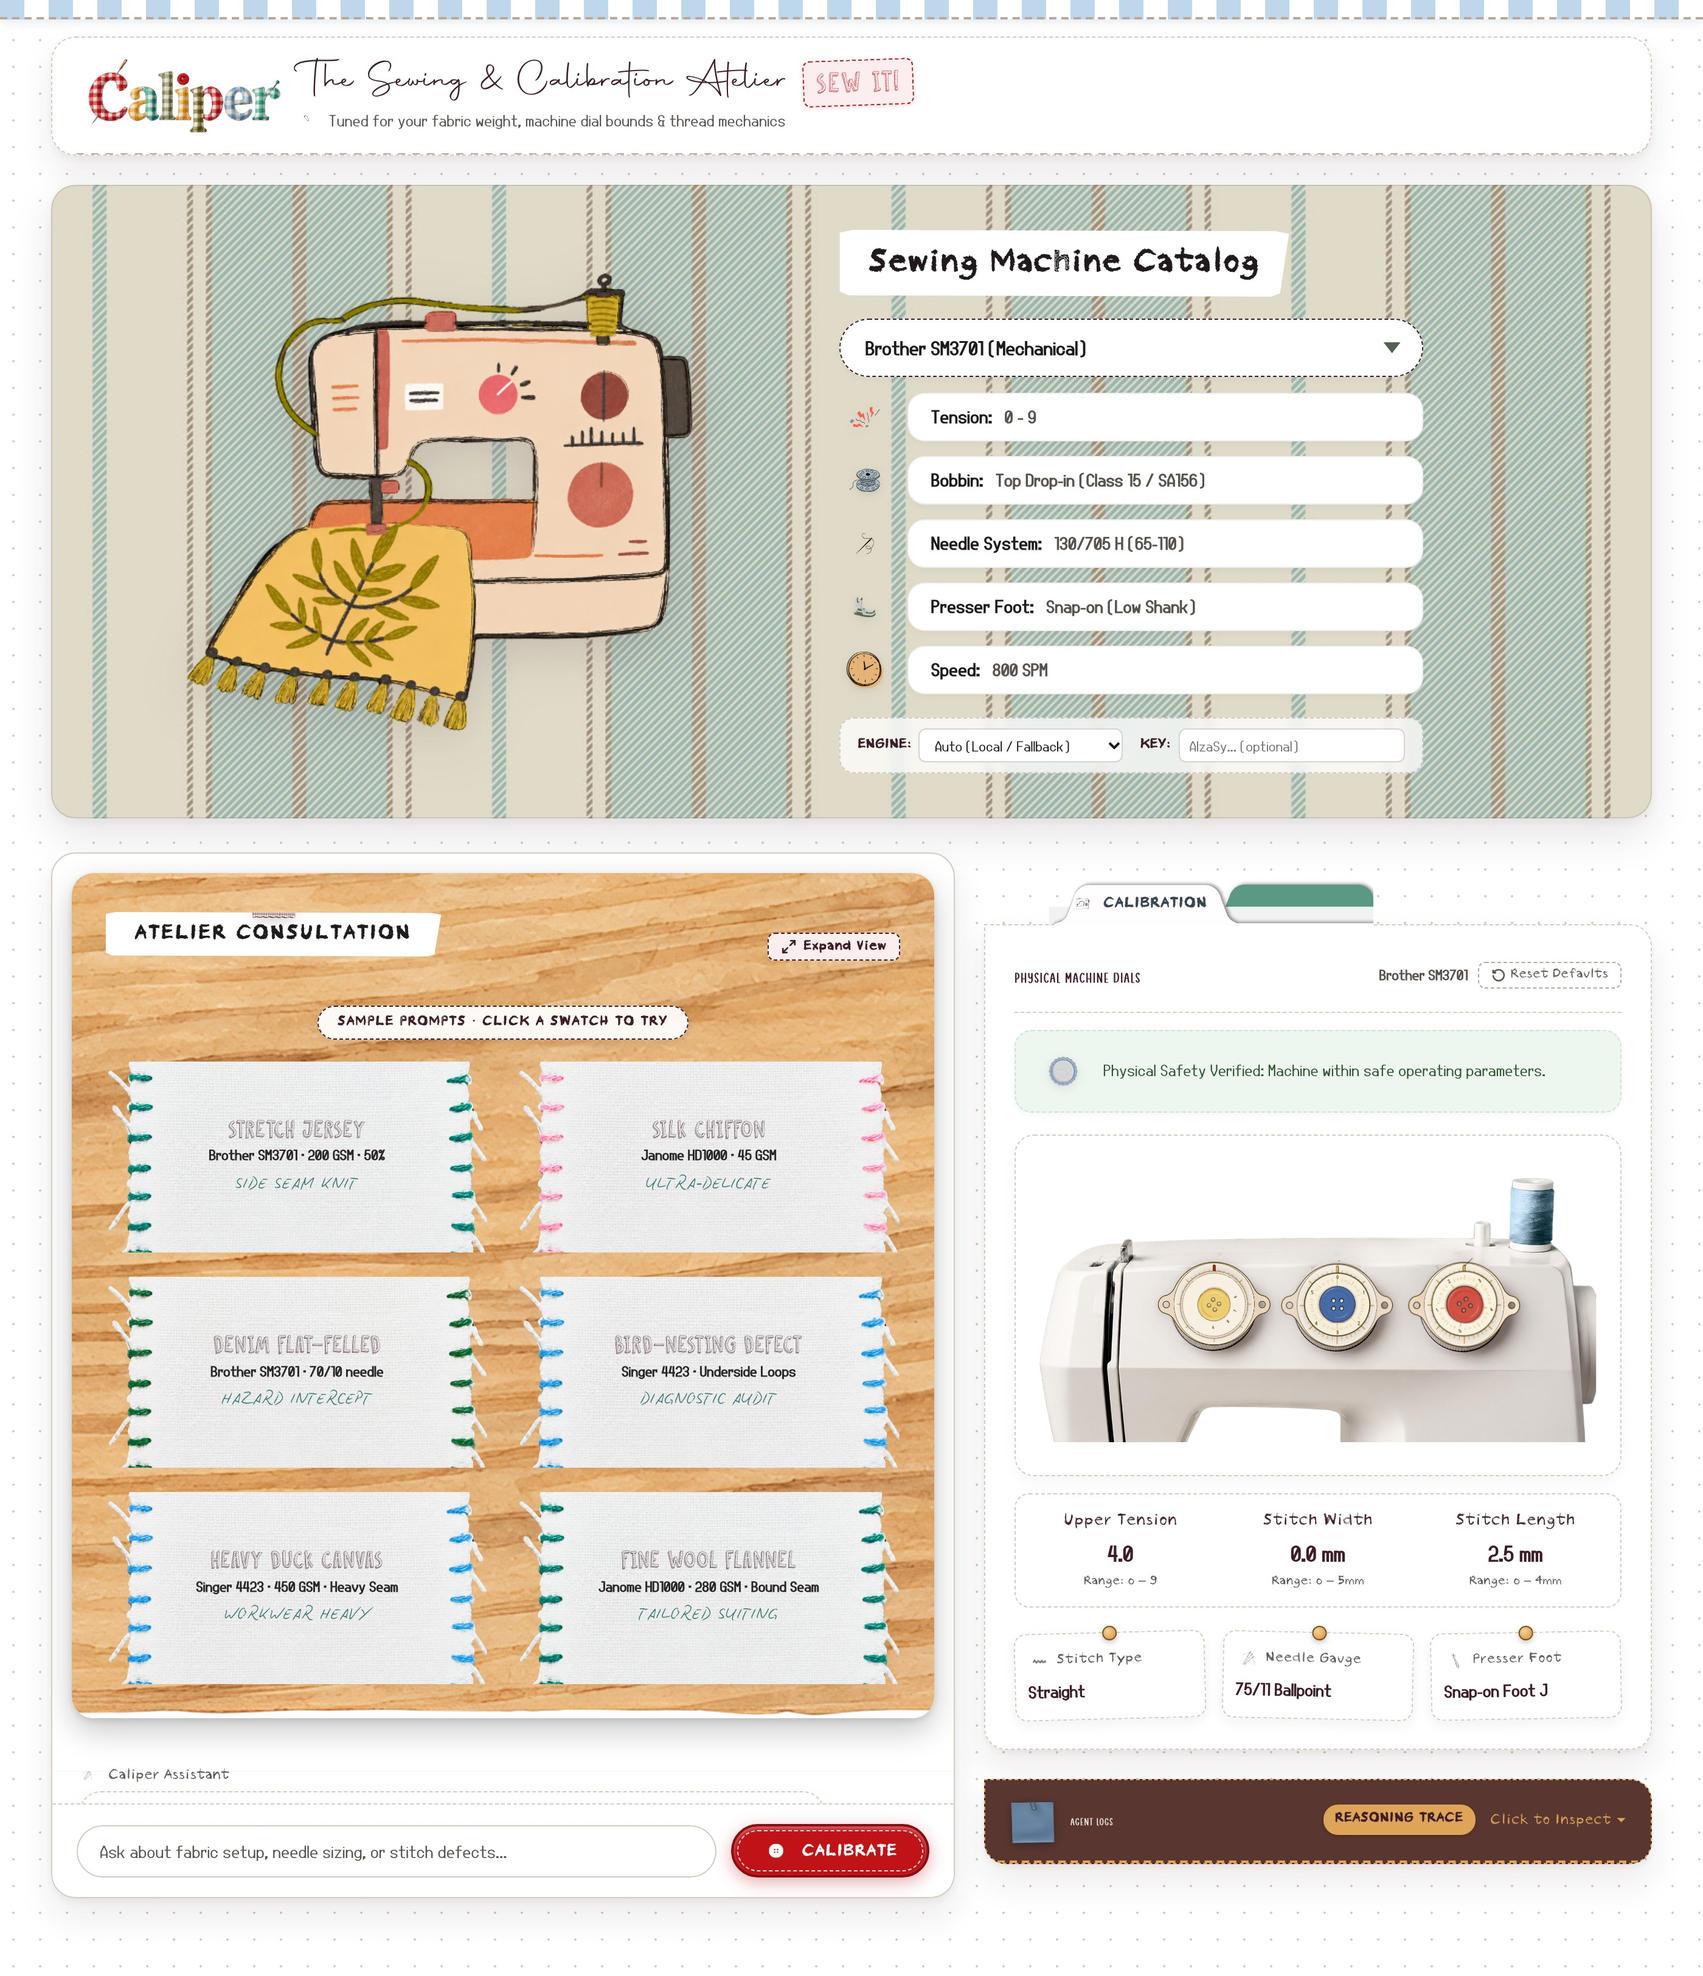
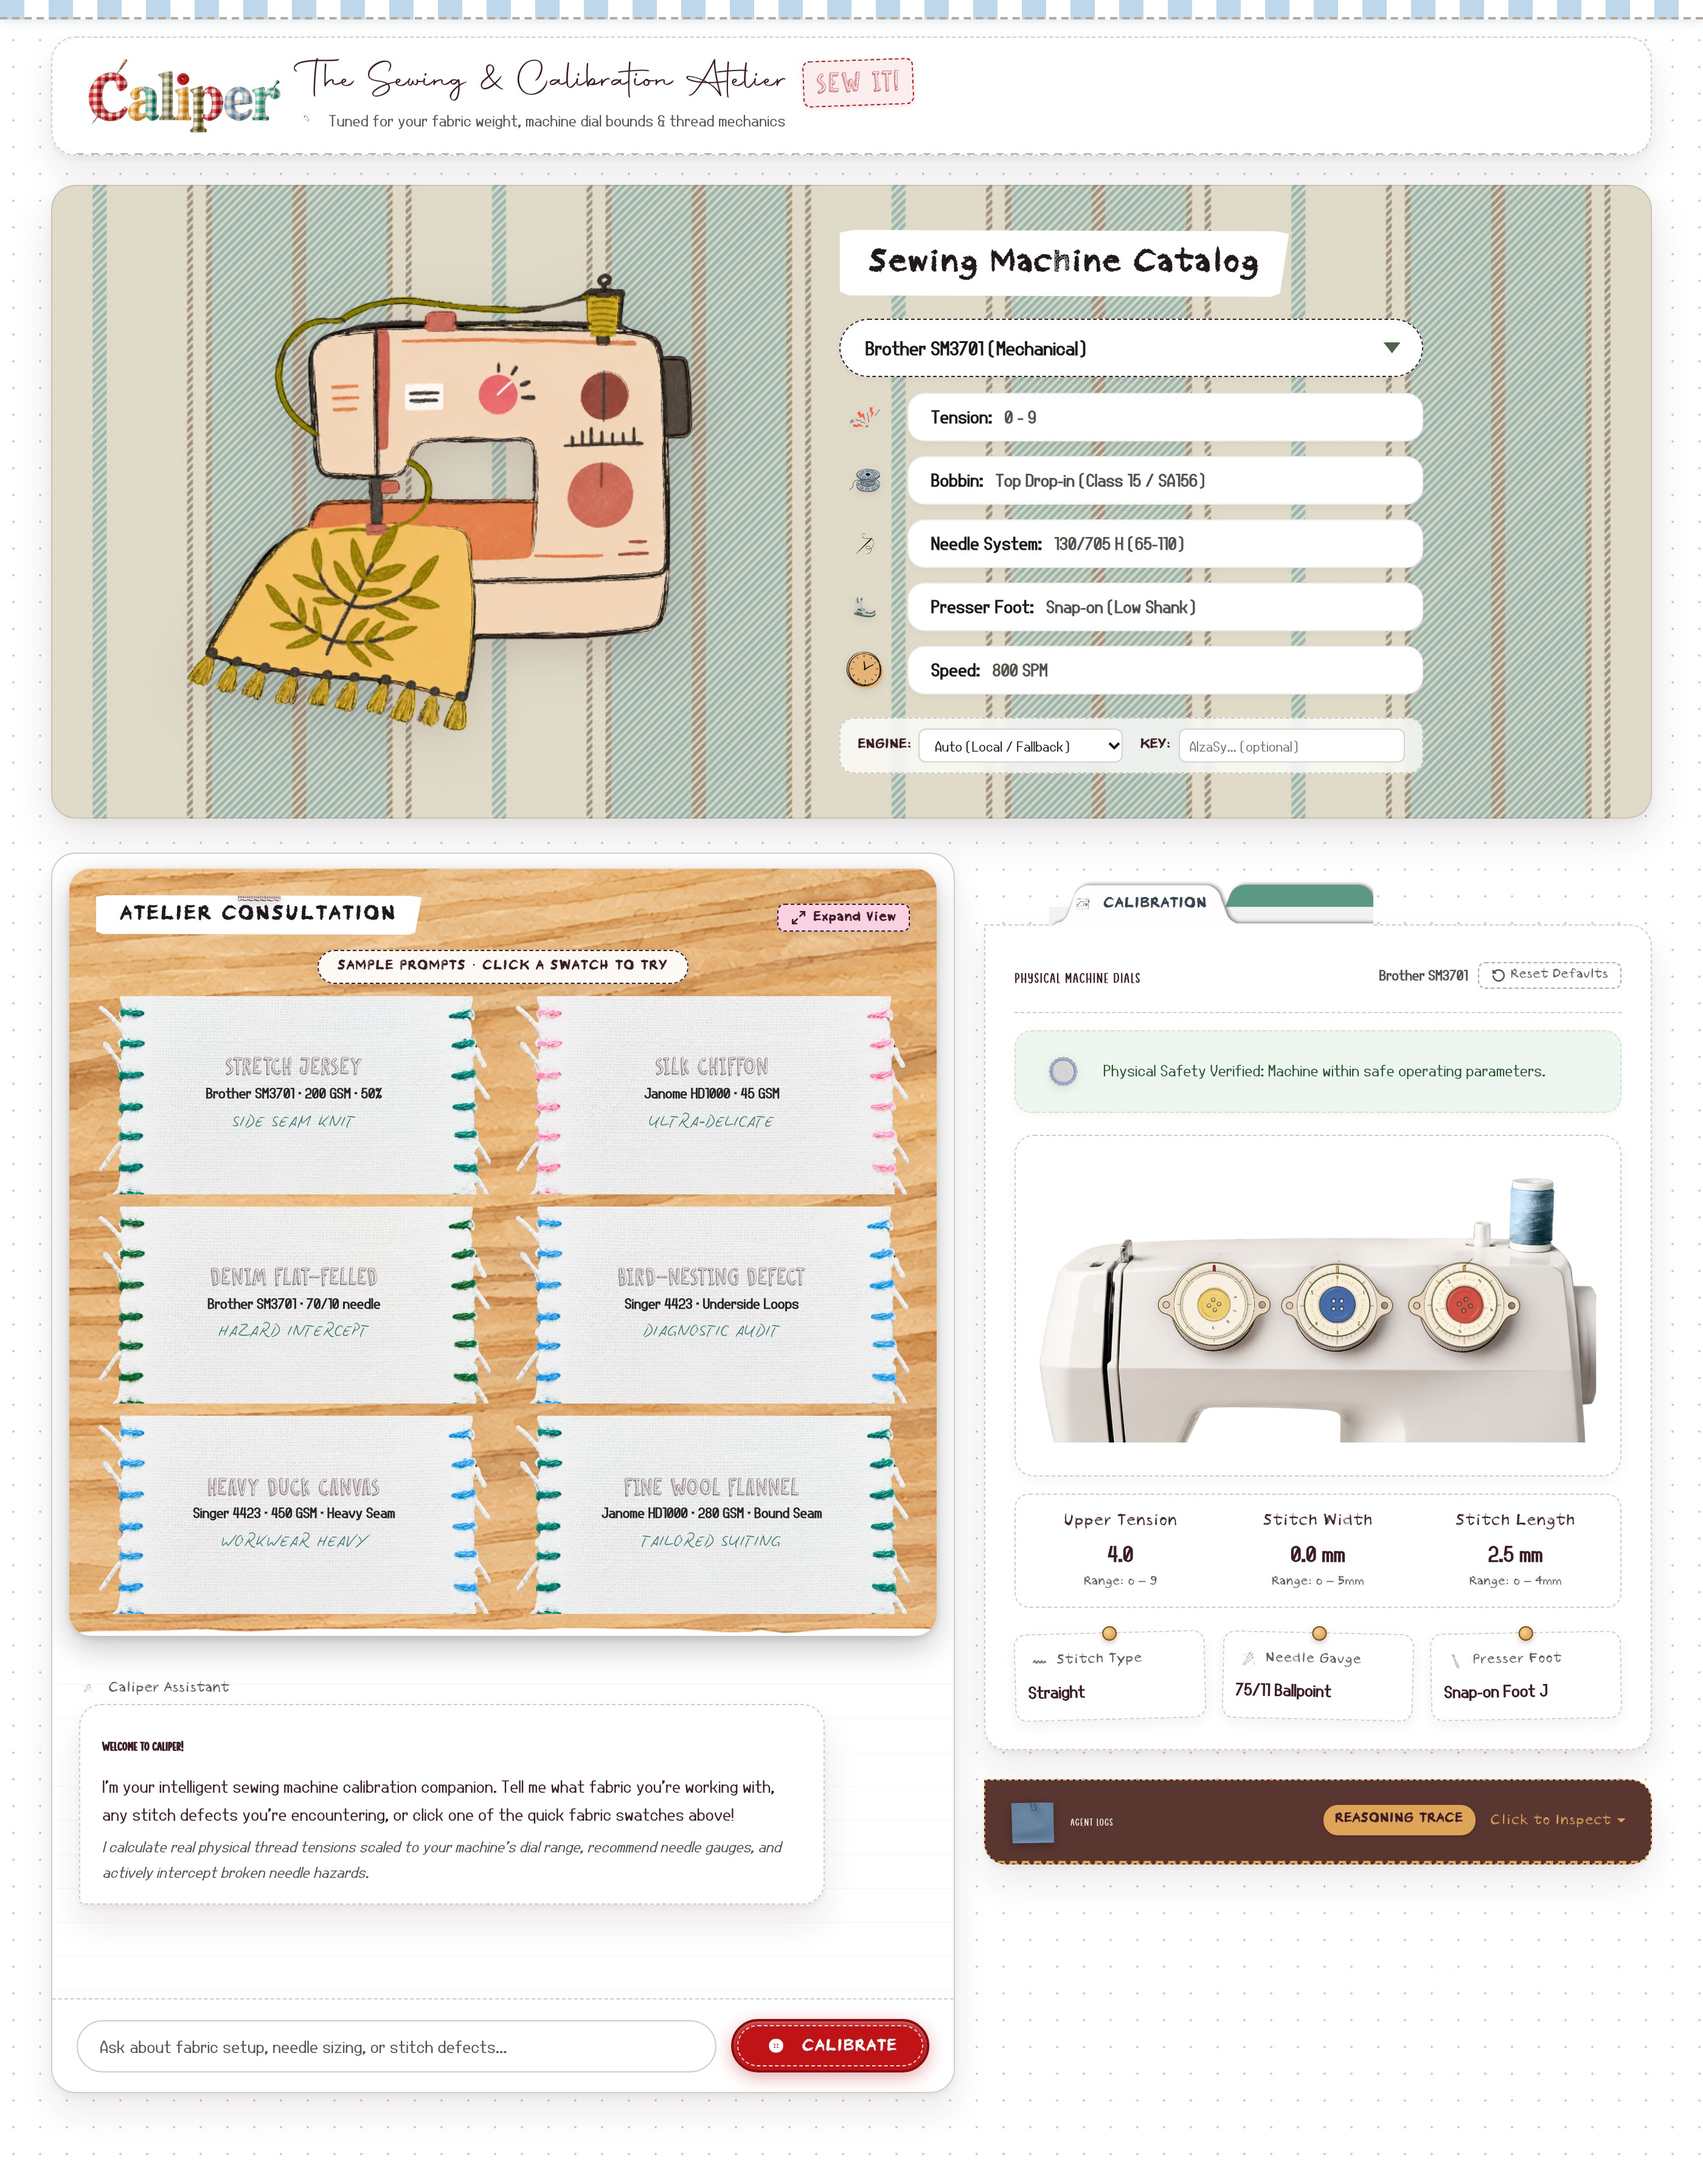
style(ui): optimize vertical proportions of wood slab & chat card for default readability

diff --git a/static/css/style.css b/static/css/style.css
@@ -702,9 +702,9 @@ body::before {
   display: flex;
   flex-direction: column;
   overflow: hidden;
-  height: 860px;
-  max-height: 860px;
-  min-height: 860px;
+  height: 1020px;
+  min-height: 1020px;
+  max-height: 1020px;
   position: relative;
   transition: min-height 0.3s ease, height 0.3s ease, max-height 0.3s ease;
 }
@@ -840,9 +840,9 @@ body::before {
   background-position: center;
   border-radius: 18px;
   box-shadow: 0 10px 26px rgba(0, 0, 0, 0.22), 0 2px 6px rgba(0, 0, 0, 0.12);
-  padding: 32px 28px 28px;
+  padding: 22px 22px 18px;
   position: relative;
-  margin: 16px;
+  margin: 12px 14px;
   box-sizing: border-box;
   transition: padding 0.3s ease;
 }
@@ -870,7 +870,7 @@ body::before {
   display: flex;
   align-items: center;
   justify-content: center;
-  margin: -4px auto 18px;
+  margin: -4px auto 10px;
   position: relative;
   z-index: 5;
   transition: opacity 0.25s ease, max-height 0.25s ease, margin 0.25s ease;
@@ -908,7 +908,7 @@ body::before {
   display: flex;
   align-items: center;
   justify-content: space-between;
-  margin-bottom: 24px;
+  margin-bottom: 10px;
   position: relative;
   z-index: 10;
 }
@@ -929,11 +929,11 @@ body::before {
   display: inline-flex;
   align-items: center;
   justify-content: center;
-  padding: 10px 24px;
+  padding: 8px 20px;
   background: #FFFFFF;
   clip-path: polygon(0% 4%, 3% 0%, 97% 2%, 100% 6%, 98% 95%, 96% 100%, 2% 98%, 0% 92%);
   box-shadow: 0 4px 10px rgba(61, 30, 40, 0.12);
-  margin-bottom: 20px;
+  margin-bottom: 6px;
 }
 
 /* Striped Bulldog Clip Pinned Dead Center */
@@ -972,7 +972,7 @@ body::before {
 .swatch-grid {
   display: grid;
   grid-template-columns: repeat(2, 1fr);
-  gap: 20px 24px;
+  gap: 10px 18px;
   position: relative;
   z-index: 2;
   box-sizing: border-box;
@@ -981,14 +981,14 @@ body::before {
 @media (max-width: 680px) {
   .swatch-grid {
     grid-template-columns: 1fr;
-    gap: 18px;
+    gap: 14px;
   }
 }
 
 /* Each Fabric Card Button Container */
 .swatch-chip {
   width: 100%;
-  min-height: 110px;
+  min-height: 86px;
   position: relative;
   cursor: pointer;
   background: transparent;
@@ -1045,7 +1045,7 @@ body::before {
   width: 76%;
   max-width: 240px;
   margin: 0 auto;
-  padding: 12px 6px;
+  padding: 6px 6px;
   display: flex;
   flex-direction: column;
   align-items: center;
